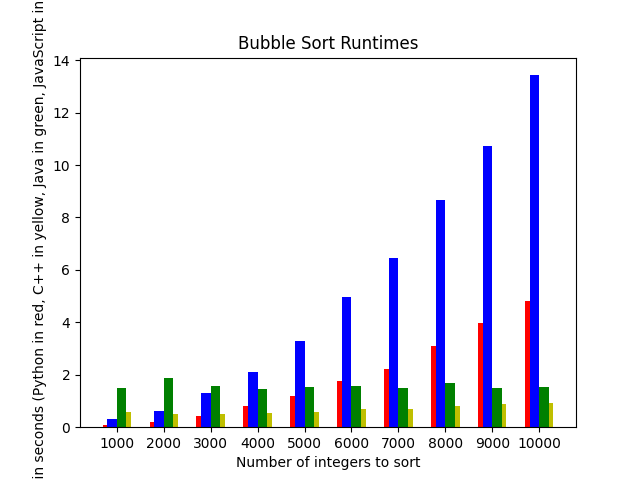
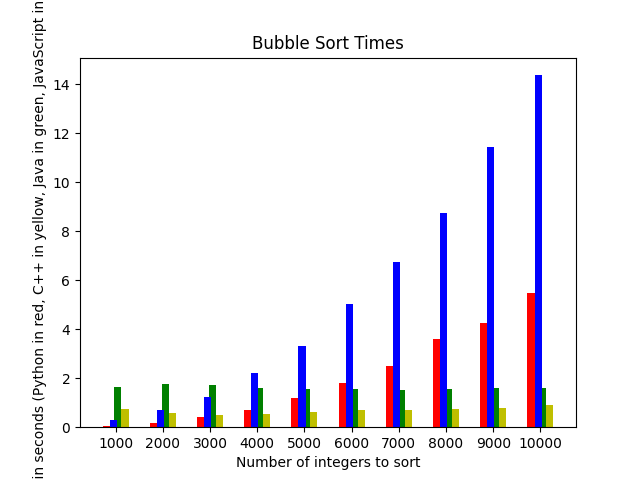
Completed the README, and the project

diff --git a/Main.py b/Main.py
@@ -464,8 +464,8 @@ sizes = range(1000, 10001, 1000)
 # Create lists that are offset so the Python bars aren't overlapping with C++ bars in the graph
 pythonX = range(800, 10001, 1000)
 cppX = range(1200, 10501, 1000)
-javaX = range(1100, 10501, 1000)
-jsX = range(900, 10001, 1000)
+javaX = range(1050, 10501, 1000)
+jsX = range(950, 10001, 1000)
 # Create a graph plot with one (1) row and one (1) column.
 # The third 1 signals to start at the first subplot (aka subplot 1 out of 1)
 ax = plt.subplot(111)
@@ -485,7 +485,7 @@ else:
 # Set the window title
 plt.gcf().canvas.manager.set_window_title('Speed Test - Bubble Sort')
 # Set the graph title
-plt.title('Bubble Sort Runtimes')
+plt.title('Bubble Sort Times')
 # Label the x axis
 plt.xlabel('Number of integers to sort')
 # Make sure the x-axis tick marks/labels are at each 1000
@@ -505,8 +505,8 @@ sizes = range(1000, 10001, 1000)
 # Create lists that are offset so the Python bars aren't overlapping with C++ bars in the graph
 pythonX = range(800, 10001, 1000)
 cppX = range(1200, 10501, 1000)
-javaX = range(1100, 10501, 1000)
-jsX = range(900, 10001, 1000)
+javaX = range(1050, 10501, 1000)
+jsX = range(950, 10001, 1000)
 # Create a graph plot with one (1) row and one (1) column.
 # The third 1 signals to start at the first subplot (aka subplot 1 out of 1)
 ax = plt.subplot(111)
@@ -526,7 +526,7 @@ else:
 # Set the window title
 plt.gcf().canvas.manager.set_window_title('Speed Test - Selection Sort')
 # Set the graph title
-plt.title('Selection Sort Runtimes')
+plt.title('Selection Sort Times')
 # Label the x axis
 plt.xlabel('Number of integers to sort')
 # Make sure the x-axis tick marks/labels are at each 1000
@@ -546,8 +546,8 @@ sizes = range(1000, 10001, 1000)
 # Create lists that are offset so the Python bars aren't overlapping with C++ bars in the graph
 pythonX = range(800, 10001, 1000)
 cppX = range(1200, 10501, 1000)
-javaX = range(1100, 10501, 1000)
-jsX = range(900, 10001, 1000)
+javaX = range(1050, 10501, 1000)
+jsX = range(950, 10001, 1000)
 # Create a graph plot with one (1) row and one (1) column.
 # The third 1 signals to start at the first subplot (aka subplot 1 out of 1)
 ax = plt.subplot(111)
@@ -567,7 +567,7 @@ else:
 # Set the window title
 plt.gcf().canvas.manager.set_window_title('Speed Test - Radix Sort')
 # Set the graph title
-plt.title('Radix Sort Runtimes')
+plt.title('Radix Sort Times')
 # Label the x axis
 plt.xlabel('Number of integers to sort')
 # Make sure the x-axis tick marks/labels are at each 1000

diff --git a/README.md b/README.md
@@ -1,9 +1,39 @@
-# M3OEP-eneisen
+# James Neisen Module 3 Open Ended Project
 
-- help with radix sort: https://www.geeksforgeeks.org/radix-sort/
-- getting python to open a java file: https://stackoverflow.com/questions/9333637/how-to-execute-java-program-using-python-considering-inputs-and-outputs-both
-- java command line arguments: https://docs.oracle.com/javase/tutorial/essential/environment/cmdLineArgs.html
-- javascript stuff: 
+## Added Installations Needed
+To Run this program I needed to install Node.js and add it to my PATH variable so I could use JavaScript, otherwise it just uses Python, C++, and Java which I already had installed and set up for other assignments this unit and other classes.
+
+## Summary of the Program
+This program builds off of the Speed Test guided project from this unit by adding two new programming languages and two other sorting algorithms. Each of the four languages I used, Python, C++, Java, and JavaScript have each of the three sorting algorithms (Bubble Sort, Selection Sort, and Radix Sort). Most of the code is in the Main.py file which handles the time calculations, calls the command line to compile if needed, and to run the sorting algorithms for each language, and then uses matplotlib to graph them (there is one graph per sorting algorithm to compare the runtimes.)
+
+The program starts in python.
+
+## Analyis of Data
+![Bubble Sort Times](BattleOfTheBubbleSorts.png)
+![Selection Sort Times](BattleOfTheSelectionSorts.png)
+![Radix Sort Times](BattleOfTheRadixSorts.png)
+For the bubble sort runtimes, we can see that the two interpreted languages (Python and JavaScript) are far slower than the compiled languages, because some of the runtime is used to interpret the code, which for C++ and Java, the compiler has already done. Javascript is considerably slower here, which may be in part because this was my first time working with JavaScript and my code might not be the most efficient/as efficient as my code is for the other languages. Regardless it does seem to be significantly slower than the other three languages used, which is likely because it has been developed with less of a focus on speed and efficiency than other languages used here (especially C++). Python, also being interpreted is pretty slow as we saw in the Speed Test project. Java is faster than the interpreted languages, but is still quite a bit slower than C++, which makes sense, especially considering the focus on speed and efficiency that C++ has. Bubble sort is a O(N^2) algorithm, and even within other O(N^2) algorithms it is especially slow, so it shows off the differences between the languages well. 
+
+The data for the selection sort is similar, with less pronounced differences between the different languages, but the radix sort data shows an interesting pattern. The compiled languages are quite a bit slower in this case, likely because of the time it takes to compile the program into an executable. Because Radix sort is only O(N), the compilation time plays a bigger role in the differences in time here. All four of the languages can do radix sort fairly quickly, and we don't see much a difference between the different array sizes.
+
+## Module 3 Concepts Used
+- Programming Language: Python
+- Programming Language: C++
+- Programming Language: Java
+- Programming Language: JavaScript
+- Command Line Arguments and File I/O for each language (except python)
+
+## Known Bugs
+I don't believe there are any bugs currently in the program
+
+## Future Work
+This project could very easily have potential for future work, it would not be difficult to add more languages, or more algorithms. I think it would be interesting to use one of the sorting algorithms that uses recursion, like merge sort or quick sort, and see how the times compare for recursion among the languages. 
+
+## Sources Used
+- Help with radix sort implementation: https://www.geeksforgeeks.org/radix-sort/
+- Getting python to open a java file: https://stackoverflow.com/questions/9333637/how-to-execute-java-program-using-python-considering-inputs-and-outputs-both
+- Java command line arguments: https://docs.oracle.com/javase/tutorial/essential/environment/cmdLineArgs.html
+- JavaScript stuff (how to get data from a file and use command line arguments mostly): 
     - https://www.boardinfinity.com/blog/how-to-run-a-js-file-in-terminal/
     - https://www.geeksforgeeks.org/how-to-read-command-line-arguments-in-node-js/
     - https://nodejs.org/api/fs.html#fs_fs_readfile_path_options_callback
@@ -12,3 +42,5 @@
     - https://www.w3schools.com/python/ref_file_readlines.asp#:~:text=The%20readlines()%20method%20returns,file%20as%20a%20list%20item.
     - https://www.geeksforgeeks.org/how-to-return-an-array-from-async-function-in-node-js/
     
+## Grade Earned
+I think I deserve somewhere around 80-90 points, my main program is pretty complex and uses the command line stuff to call the other files. It is not particularily interactive though, just by virtue of what the project is, it didn't really make sense to ask the user for input. I used 3 other programming languages aside from C++ which I think is used in a robust way that makes sense for the program. I did not use any other programming languages. I also did all of the things that are expected and can result in a loss of points. So I would give myself like 20 points for the main program and then 20 for each of the non-C++ languages (Python, Java, and JavaScript) resulting in 80ish points plus a few points for the command line arguments and file I/O for each language. 
